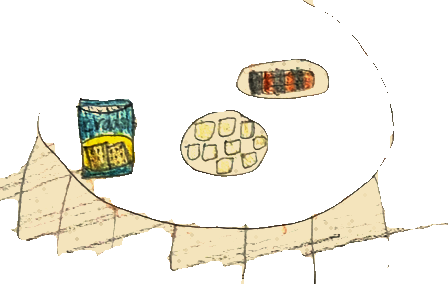
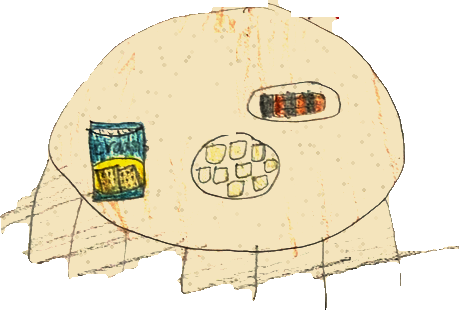
Snowy Hut table cut out whole; owl's light never centred on the little WIT
Claude-Session: https://claude.ai/code/session_01BBNJnnKDsoYXa5MRnbbGYn

diff --git a/index.html b/index.html
@@ -6,7 +6,7 @@
   <title>Witches and Wizards</title>
   <link rel="preconnect" href="https://fonts.googleapis.com">
   <link href="https://fonts.googleapis.com/css2?family=Grandstander:wght@400;700&display=swap" rel="stylesheet">
-  <link rel="stylesheet" href="css/style.css?v=78">
+  <link rel="stylesheet" href="css/style.css?v=79">
 </head>
 <body>
 
@@ -73,7 +73,7 @@
     <button id="btn-level" class="status-item level-button" title="Click to see what you need for the next Level"><b id="status-level"></b></button>
     <button id="btn-adventures" class="status-item level-button" title="Adventure Points: click to see your adventures">Adventure <span id="status-points" class="stars"></span></button>
     <span class="status-item" title="Crystals">💎 <b id="status-crystals"></b></span>
-    <span class="status-item" title="Gems"><img class="gem-icon" src="art/processed/extra_gem.png?v=78" alt="Gems"> <b id="status-gems"></b></span>
+    <span class="status-item" title="Gems"><img class="gem-icon" src="art/processed/extra_gem.png?v=79" alt="Gems"> <b id="status-gems"></b></span>
     <button id="btn-skills" class="status-item level-button" title="Skills: click to see your skills and their Levels">🎓 Skills <b id="status-skills"></b></button>
     <span class="status-item" title="Chore Points">🧹 <b id="status-chores"></b></span>
     <span class="status-item" title="Bonding Points: take care of your pet">🐾 <b id="status-bonding"></b></span>
@@ -262,75 +262,75 @@
   <p id="placement-info" class="placement-info" hidden></p>
 
   <!-- Game content. Every data file adds to GAME_DATA. -->
-  <script>var GAME_DATA = {}; var GAME_VERSION = "78"; // tools/bump_version.py changes this and every ?v= so browsers load fresh files</script>
-  <script src="data/characters.js?v=78"></script>
-  <script src="data/places.js?v=78"></script>
-  <script src="data/paths.js?v=78"></script>
-  <script src="data/items.js?v=78"></script>
-  <script src="data/fish.js?v=78"></script>
-  <script src="data/digging.js?v=78"></script>
-  <script src="data/chores.js?v=78"></script>
-  <script src="data/mining.js?v=78"></script>
-<script src="data/hunger.js?v=78"></script>
-  <script src="data/dance.js?v=78"></script>
-  <script src="data/orchard.js?v=78"></script>
-  <script src="data/spells.js?v=78"></script>
-  <script src="data/unicorns.js?v=78"></script>
-  <script src="data/trading.js?v=78"></script>
-    <script src="data/troll.js?v=78"></script>
-  <script src="data/levels.js?v=78"></script>
-  <script src="data/luck.js?v=78"></script>
-  <script src="data/bonding.js?v=78"></script>
-  <script src="data/pearls.js?v=78"></script>
-  <script src="data/skills.js?v=78"></script>
-  <script src="data/sports.js?v=78"></script>
-  <script src="data/pixie.js?v=78"></script>
-  <script src="data/coaster.js?v=78"></script>
-  <script src="data/supplies.js?v=78"></script>
-  <script src="data/honey.js?v=78"></script>
-  <script src="data/adventures.js?v=78"></script>
-  <script src="data/story.js?v=78"></script>
-  <script src="data/museum.js?v=78"></script>
-  <script src="data/windy.js?v=78"></script>
-  <script src="data/testing.js?v=78"></script>
-  <script src="data/music.js?v=78"></script>
-  <script src="data/furniture.js?v=78"></script>
-  <script src="data/furniture_art.js?v=78"></script>
-  <script src="data/drawn.js?v=78"></script>
+  <script>var GAME_DATA = {}; var GAME_VERSION = "79"; // tools/bump_version.py changes this and every ?v= so browsers load fresh files</script>
+  <script src="data/characters.js?v=79"></script>
+  <script src="data/places.js?v=79"></script>
+  <script src="data/paths.js?v=79"></script>
+  <script src="data/items.js?v=79"></script>
+  <script src="data/fish.js?v=79"></script>
+  <script src="data/digging.js?v=79"></script>
+  <script src="data/chores.js?v=79"></script>
+  <script src="data/mining.js?v=79"></script>
+<script src="data/hunger.js?v=79"></script>
+  <script src="data/dance.js?v=79"></script>
+  <script src="data/orchard.js?v=79"></script>
+  <script src="data/spells.js?v=79"></script>
+  <script src="data/unicorns.js?v=79"></script>
+  <script src="data/trading.js?v=79"></script>
+    <script src="data/troll.js?v=79"></script>
+  <script src="data/levels.js?v=79"></script>
+  <script src="data/luck.js?v=79"></script>
+  <script src="data/bonding.js?v=79"></script>
+  <script src="data/pearls.js?v=79"></script>
+  <script src="data/skills.js?v=79"></script>
+  <script src="data/sports.js?v=79"></script>
+  <script src="data/pixie.js?v=79"></script>
+  <script src="data/coaster.js?v=79"></script>
+  <script src="data/supplies.js?v=79"></script>
+  <script src="data/honey.js?v=79"></script>
+  <script src="data/adventures.js?v=79"></script>
+  <script src="data/story.js?v=79"></script>
+  <script src="data/museum.js?v=79"></script>
+  <script src="data/windy.js?v=79"></script>
+  <script src="data/testing.js?v=79"></script>
+  <script src="data/music.js?v=79"></script>
+  <script src="data/furniture.js?v=79"></script>
+  <script src="data/furniture_art.js?v=79"></script>
+  <script src="data/drawn.js?v=79"></script>
 
   <!-- Game code -->
-  <script src="js/save.js?v=78"></script>
-  <script src="js/world.js?v=78"></script>
-  <script src="js/items.js?v=78"></script>
-  <script src="js/fishing.js?v=78"></script>
-  <script src="js/digging.js?v=78"></script>
-  <script src="js/chores.js?v=78"></script>
-  <script src="js/mining.js?v=78"></script>
-  <script src="js/troll.js?v=78"></script>
-<script src="js/hunger.js?v=78"></script>
-  <script src="js/luck.js?v=78"></script>
-  <script src="js/levels.js?v=78"></script>
-  <script src="js/bonding.js?v=78"></script>
-  <script src="js/cafe.js?v=78"></script>
-  <script src="js/pearls.js?v=78"></script>
-  <script src="js/skills.js?v=78"></script>
-  <script src="js/sports.js?v=78"></script>
-  <script src="js/pixie.js?v=78"></script>
-  <script src="js/coaster.js?v=78"></script>
-  <script src="js/adventures.js?v=78"></script>
-  <script src="js/honey.js?v=78"></script>
-  <script src="js/music.js?v=78"></script>
-  <script src="js/dance.js?v=78"></script>
-  <script src="js/orchard.js?v=78"></script>
-  <script src="js/spells.js?v=78"></script>
-  <script src="js/unicorns.js?v=78"></script>
-  <script src="js/trading.js?v=78"></script>
-    <script src="js/storage.js?v=78"></script>
-  <script src="js/furniture.js?v=78"></script>
-  <script src="js/story.js?v=78"></script>
-  <script src="js/museum.js?v=78"></script>
-  <script src="js/windy.js?v=78"></script>
-  <script src="js/testing.js?v=78"></script>
-  <script src="js/game.js?v=78"></script>
+  <script src="js/save.js?v=79"></script>
+  <script src="js/world.js?v=79"></script>
+  <script src="js/items.js?v=79"></script>
+  <script src="js/fishing.js?v=79"></script>
+  <script src="js/digging.js?v=79"></script>
+  <script src="js/chores.js?v=79"></script>
+  <script src="js/mining.js?v=79"></script>
+  <script src="js/troll.js?v=79"></script>
+<script src="js/hunger.js?v=79"></script>
+  <script src="js/luck.js?v=79"></script>
+  <script src="js/levels.js?v=79"></script>
+  <script src="js/bonding.js?v=79"></script>
+  <script src="js/cafe.js?v=79"></script>
+  <script src="js/pearls.js?v=79"></script>
+  <script src="js/skills.js?v=79"></script>
+  <script src="js/sports.js?v=79"></script>
+  <script src="js/pixie.js?v=79"></script>
+  <script src="js/coaster.js?v=79"></script>
+  <script src="js/adventures.js?v=79"></script>
+  <script src="js/honey.js?v=79"></script>
+  <script src="js/music.js?v=79"></script>
+  <script src="js/dance.js?v=79"></script>
+  <script src="js/orchard.js?v=79"></script>
+  <script src="js/spells.js?v=79"></script>
+  <script src="js/unicorns.js?v=79"></script>
+  <script src="js/trading.js?v=79"></script>
+    <script src="js/storage.js?v=79"></script>
+  <script src="js/furniture.js?v=79"></script>
+  <script src="js/story.js?v=79"></script>
+  <script src="js/museum.js?v=79"></script>
+  <script src="js/windy.js?v=79"></script>
+  <script src="js/testing.js?v=79"></script>
+  <script src="js/game.js?v=79"></script>
 </body>
 </html>

diff --git a/catalog.html b/catalog.html
@@ -357,40 +357,40 @@
   </div>
   </main>
 
-  <script>var GAME_DATA = {}; var GAME_VERSION = "78"; // tools/bump_version.py changes this and every ?v= so browsers load fresh files</script>
-  <script src="data/characters.js?v=78"></script>
-  <script src="data/places.js?v=78"></script>
-  <script src="data/items.js?v=78"></script>
-  <script src="data/ideas.js?v=78"></script>
-  <script src="data/fish.js?v=78"></script>
-  <script src="data/digging.js?v=78"></script>
-  <script src="data/mining.js?v=78"></script>
-  <script src="data/troll.js?v=78"></script>
-  <script src="data/levels.js?v=78"></script>
-  <script src="data/luck.js?v=78"></script>
-  <script src="data/bonding.js?v=78"></script>
-  <script src="data/pearls.js?v=78"></script>
-  <script src="data/skills.js?v=78"></script>
-  <script src="data/sports.js?v=78"></script>
-  <script src="data/pixie.js?v=78"></script>
-  <script src="data/supplies.js?v=78"></script>
-  <script src="data/honey.js?v=78"></script>
-  <script src="data/gameplay.js?v=78"></script>
-  <script src="data/extras.js?v=78"></script>
-  <script src="data/hunger.js?v=78"></script>
-  <script src="data/orchard.js?v=78"></script>
-  <script src="data/dance.js?v=78"></script>
-  <script src="data/trading.js?v=78"></script>
-  <script src="data/unicorns.js?v=78"></script>
-  <script src="data/adventures.js?v=78"></script>
-  <script src="data/spells.js?v=78"></script>
-  <script src="data/furniture.js?v=78"></script>
-  <script src="data/next_steps.js?v=78"></script>
-  <script src="data/adventure_ideas.js?v=78"></script>
-  <script src="data/logic.js?v=78"></script>
-  <script src="data/chores.js?v=78"></script>
-  <script src="data/music.js?v=78"></script>
-  <script src="data/drawn.js?v=78"></script>
+  <script>var GAME_DATA = {}; var GAME_VERSION = "79"; // tools/bump_version.py changes this and every ?v= so browsers load fresh files</script>
+  <script src="data/characters.js?v=79"></script>
+  <script src="data/places.js?v=79"></script>
+  <script src="data/items.js?v=79"></script>
+  <script src="data/ideas.js?v=79"></script>
+  <script src="data/fish.js?v=79"></script>
+  <script src="data/digging.js?v=79"></script>
+  <script src="data/mining.js?v=79"></script>
+  <script src="data/troll.js?v=79"></script>
+  <script src="data/levels.js?v=79"></script>
+  <script src="data/luck.js?v=79"></script>
+  <script src="data/bonding.js?v=79"></script>
+  <script src="data/pearls.js?v=79"></script>
+  <script src="data/skills.js?v=79"></script>
+  <script src="data/sports.js?v=79"></script>
+  <script src="data/pixie.js?v=79"></script>
+  <script src="data/supplies.js?v=79"></script>
+  <script src="data/honey.js?v=79"></script>
+  <script src="data/gameplay.js?v=79"></script>
+  <script src="data/extras.js?v=79"></script>
+  <script src="data/hunger.js?v=79"></script>
+  <script src="data/orchard.js?v=79"></script>
+  <script src="data/dance.js?v=79"></script>
+  <script src="data/trading.js?v=79"></script>
+  <script src="data/unicorns.js?v=79"></script>
+  <script src="data/adventures.js?v=79"></script>
+  <script src="data/spells.js?v=79"></script>
+  <script src="data/furniture.js?v=79"></script>
+  <script src="data/next_steps.js?v=79"></script>
+  <script src="data/adventure_ideas.js?v=79"></script>
+  <script src="data/logic.js?v=79"></script>
+  <script src="data/chores.js?v=79"></script>
+  <script src="data/music.js?v=79"></script>
+  <script src="data/drawn.js?v=79"></script>
   <script>
     // Builds the catalog straight from the game's data files, so it never goes out of date.
     const drawn = GAME_DATA.drawn || [];

diff --git a/data/furniture_art.js b/data/furniture_art.js
@@ -1,3 +1,3 @@
 // Made by tools/process_art.py: where each cut-out piece of furniture sits
 // in its room's drawing, as [left, top, right, bottom] percentages.
-GAME_DATA.furnitureBoxes = {"cabin/table": [7.7, 66.5, 22.0, 76.1], "cabin/stool": [22.4, 70.7, 28.8, 77.6], "cabin/sofa": [38.0, 57.2, 65.1, 75.0], "cabin/bookshelf": [84.0, 57.6, 100.0, 74.0], "home/bird_cage": [36.5, 29.2, 54.9, 65.0], "home/pet_cage": [3.1, 39.0, 35.0, 70.0], "home/chest": [78.0, 45.9, 100.0, 64.6], "home/armchair": [64.5, 62.3, 83.4, 94.0], "home/cooler": [2.6, 75.3, 19.8, 90.0], "home/spellbook_table": [19.6, 73.6, 40.8, 92.8], "hut/snack_table": [8.0, 13.0, 36.0, 40.0], "hut/armchair": [67.7, 26.4, 91.0, 51.0], "hut/bookshelf": [80.1, 51.0, 97.0, 85.4], "hut/egg_chair": [58.2, 72.5, 69.0, 86.4], "mountain_house/table": [9.3, 69.1, 27.3, 81.9], "mountain_house/pink_chair": [37.3, 68.0, 64.0, 84.1], "mountain_house/green_chair": [66.1, 68.7, 88.7, 80.9], "mountain_house/pencil": [15.2, 85.3, 24.0, 91.4], "old_oak/sofa": [4.6, 54.0, 48.0, 84.5], "old_oak/pouf": [52.3, 67.5, 59.8, 78.5], "old_oak/cushions": [20.0, 82.0, 71.0, 97.2], "unicorn_meadow/front_1": [17.1, 17.9, 26.6, 43.0], "unicorn_meadow/front_2": [46.0, 6.0, 59.0, 35.4], "unicorn_meadow/front_3": [79.8, 14.9, 92.2, 40.5], "unicorn_meadow/front_4": [57.5, 27.8, 69.0, 61.0], "unicorn_meadow/front_5": [14.5, 49.9, 27.5, 77.0], "unicorn_meadow/front_6": [1.2, 64.8, 9.9, 87.7], "unicorn_meadow/front_7": [31.5, 67.0, 44.0, 95.8], "unicorn_meadow/front_8": [46.8, 76.6, 58.0, 94.0], "unicorn_meadow/front_9": [75.0, 54.0, 90.0, 85.1]};
+GAME_DATA.furnitureBoxes = {"cabin/table": [7.7, 66.5, 22.0, 76.1], "cabin/stool": [22.4, 70.7, 28.8, 77.6], "cabin/sofa": [38.0, 57.2, 65.1, 75.0], "cabin/bookshelf": [84.0, 57.6, 100.0, 74.0], "home/bird_cage": [36.5, 29.2, 54.9, 65.0], "home/pet_cage": [3.1, 39.0, 35.0, 70.0], "home/chest": [78.0, 45.9, 100.0, 64.6], "home/armchair": [64.5, 62.3, 83.4, 94.0], "home/cooler": [2.6, 75.3, 19.8, 90.0], "home/spellbook_table": [19.6, 73.6, 40.8, 92.8], "hut/snack_table": [7.3, 10.8, 36.0, 40.3], "hut/armchair": [67.7, 26.4, 91.0, 51.0], "hut/bookshelf": [80.1, 51.0, 97.0, 85.4], "hut/egg_chair": [58.2, 72.5, 69.0, 86.4], "mountain_house/table": [9.3, 69.1, 27.3, 81.9], "mountain_house/pink_chair": [37.3, 68.0, 64.0, 84.1], "mountain_house/green_chair": [66.1, 68.7, 88.7, 80.9], "mountain_house/pencil": [15.2, 85.3, 24.0, 91.4], "old_oak/sofa": [4.6, 54.0, 48.0, 84.5], "old_oak/pouf": [52.3, 67.5, 59.8, 78.5], "old_oak/cushions": [20.0, 82.0, 71.0, 97.2], "unicorn_meadow/front_1": [17.1, 17.9, 26.6, 43.0], "unicorn_meadow/front_2": [46.0, 6.0, 59.0, 35.4], "unicorn_meadow/front_3": [79.8, 14.9, 92.2, 40.5], "unicorn_meadow/front_4": [57.5, 27.8, 69.0, 61.0], "unicorn_meadow/front_5": [14.5, 49.9, 27.5, 77.0], "unicorn_meadow/front_6": [1.2, 64.8, 9.9, 87.7], "unicorn_meadow/front_7": [31.5, 67.0, 44.0, 95.8], "unicorn_meadow/front_8": [46.8, 76.6, 58.0, 94.0], "unicorn_meadow/front_9": [75.0, 54.0, 90.0, 85.1]};

diff --git a/data/furniture.js b/data/furniture.js
@@ -1,4 +1,4 @@
-// Furniture the player can move around (the 🪑 Rearrange button in a room).
+// Furniture the player can move around (drag a piece in its room).
 // Each piece is cut out of the room's drawing by tools/process_art.py, which
 // also makes an empty copy of the room to stand the pieces in.
 //
@@ -11,8 +11,11 @@
 //   holds  optional: click it at Home to open this store ("homeCooler" or
 //          "homeChest", see js/storage.js)
 //   min_part  optional: keep smaller loose bits too (like shadows); default 0.05
+//   keep_out  optional: boxes (same kind of numbers as "box") to leave out of
+//          the piece, for things drawn touching it that should stay in the room
 GAME_DATA.furniture = [
-  { "place": "hut", "id": "snack_table", "name": "Snack Table",  "box": [8, 13, 36, 40] },
+  { "place": "hut", "id": "snack_table", "name": "Snack Table",  "box": [6, 10.8, 36, 41.5],
+    "keep_out": [[19.5, 10, 24, 11.4], [25.5, 10, 30, 12.3]] },
   { "place": "hut", "id": "armchair",   "name": "Pink Armchair", "box": [67, 24, 92, 51] },
   { "place": "hut", "id": "bookshelf",  "name": "Bookshelf",    "box": [79, 50, 97, 86] },
   { "place": "hut", "id": "egg_chair",  "name": "Purple Chair", "box": [57, 71, 69, 88] },

diff --git a/data/windy.js b/data/windy.js
@@ -31,9 +31,10 @@ GAME_DATA.windyRescue = {
   "zoomSeconds": 1.5,     // how long the chosen section takes to grow
   "owl": "pet_owl",       // the Snowy Owl's picture (🦉 until drawn)
   "flySeconds": 3,        // one flight across the magnified section
-  "lightSize": 30,        // the lit spot's width, in percent of the magnified section...
+  "lightSize": 36,        // the lit spot's width, in percent of the magnified section...
   "witSize": 8,           // ...the little WIT's, which is somewhere inside the lit spot...
-  "findDistance": 6,      // ...and how close a click must be to find them
+  "offCentre": 0.5,       // ...at least this far out from its middle (0 = middle, 1 = edge; Scott: never the middle)...
+  "findDistance": 5,      // ...and how close a click must be to find them
   "lightSeconds": 1.2,    // how long the spot stays lit
   "lostWit": "🧒",        // until the girls draw the little WIT (art/raw/extra_little_wit.jpg)
   "picture": "extra_little_wit",

diff --git a/js/windy.js b/js/windy.js
@@ -333,12 +333,14 @@ function flyOwl(zoom) {
   }, rules.flySeconds * 1000);
 }
 
-// A spot lights up around the little WIT, not centred on them, so there's
-// still some luck in where you click.
+// A spot lights up around the little WIT, never centred on them: they're
+// somewhere near its edge, a different side each flight. So one flight only
+// narrows it down, and where two or three lit spots overlap is the place to look.
 function lightUp(zoom, shape) {
   const rules = windyRules();
   const wit = player.windy.wit;
-  const away = Math.random() * (rules.lightSize - rules.witSize) / 2;
+  const farthest = (rules.lightSize - rules.witSize) / 2;
+  const away = farthest * (rules.offCentre + Math.random() * (1 - rules.offCentre));
   const angle = Math.random() * Math.PI * 2;
   const light = document.createElement("span");
   light.className = "owl-light";

diff --git a/tools/process_art.py b/tools/process_art.py
@@ -295,6 +295,11 @@ def cut_out_furniture(place_id, drawing, paper, pieces):
         part = empty.crop(box)
         mask = find_drawing(part, piece.get("min_part", 0.05), piece.get("gap", GAP_CLOSE),
                             piece.get("ink_level", 190))
+        # keep_out: boxes (percent of the room) that aren't part of this piece,
+        # like hanging stars just above the Snowy Hut's table top.
+        for kl, kt, kr, kb in piece.get("keep_out", []):
+            ImageDraw.Draw(mask).rectangle((round(w * kl / 100) - box[0], round(h * kt / 100) - box[1],
+                                            round(w * kr / 100) - box[0], round(h * kb / 100) - box[1]), fill=0)
         sticker = on_paper(part, paper.crop(box)).convert("RGBA")
         sticker.putalpha(mask)
         inside = mask.getbbox()

diff --git a/CLAUDE.md b/CLAUDE.md
@@ -31,7 +31,7 @@ A family project: Scott drives, his two 9-year-old daughters make the art and de
 - Territories on the World map: Village, Forest, Mountain, Lake, Meadows (Scott, 2026-10-10: the flowers at the bottom right. The girls drew `map_meadows` 2026-10-13, photo art/raw/sheets/meadows_map.jpeg: Cozy Lounge, Poppy Patch, Pet Training Field, Rosy Hills, Stream, Beehive, Unicorn Meadow (the rainbow), Butterfly Garden; the new six are placeholders).
 - Village map drawn (Scott, 2026-10-15; `map_village`, a sideways photo turned with `rotate`): ten houses, no streets, so its roads are straight. Claude matched the 8 places to houses (big double-door house = Wizard School, tall one = Multi-House, the ray-lines house = Disco Dance Hall); the storm house (top middle) and the small striped house (middle) are for future places (Scott).
 - Farm (Scott, 2026-10-15): a sixth territory (`farm`, placeholder map, placed by Claude on the World map west of the Village and Forest, roads to both) with its sections, nothing to do yet: Farm House (`farm_house`), Barn next to it with farming tools inside (`barn`, Scott), Animal Farm (`animal_farm`), Crop Fields (`crop_fields`). Meant for raising animals and crops.
-- Lost on Windy Peak (Scott, 2026-10-15, his design, reworked 2026-10-16 for "less prompting, more figuring out"): `data/windy.js` (`GAME_DATA.windyRescue`, the steps are listed at its top), `js/windy.js`, adventure `windy` with `unlockBy` instead of `unlockItem` (adventures with `unlockBy` don't use a Skills-earned place). The Snowy Owl Dropoff only lets owls fly after a falconry lesson (`player.falconryDone`; Pet Training Field). Letting it fly while owning a Night Vision Potion starts it (`owlFlewOverSlope`, via `after` in openCare). The potion has 4 sips (🌙 Sip in the backpack while searching; `player.windy.sips`, the last sip uses it up; `player.windy.seeing` until used); nothing tells you to sip. Look down (binoculars) after a sip shows a blown-up green Ski Slope (`place_ski_slope`, hidden place in the peak, placeholder until drawn) with a lantern glow inside the little WIT's section (`player.windy.glow`), the first clue. Ski down: the dark slope in 12 big sections (4 × 3), "Choose a section to search", 3 tries (`player.windy.looked`), then they wander. The right section grows to fill the picture (`magnifiedSection`, `zoomSeconds`); each sip the Snowy Owl flies across it (`flyOwl`) and as it passes the little WIT a spot bigger than them lights up briefly, not centred on them (`lightSize`, `witSize`); 3 searches (`player.windy.searched`, `findDistance`), then they wander. Found: click them, "⛷ Ski down together" to the Snowy Hut (stage "cold"). There, with no instructions, drag the little WIT onto the couch (the "armchair" furniture piece; "sitting"), the blanket hanging over the couch onto them ("covered"; `hut_blanket`, a plaid placeholder until drawn), then the hut's mug (the girls' pink mug, cut out of the hut drawing as `hut_mug` and erased from it) onto them: +1 Adventure Point, `player.windy.done`, stage back to "". Out-of-order drops get a reply from the little WIT (`slips`, `shaky`). The mug, blanket and seat sit on their furniture and move with it (`on` in data/windy.js). Little WIT is 🧒 until drawn (`extra_little_wit`); celebration kind "rescue" has no picture yet.
+- Lost on Windy Peak (Scott, 2026-10-15, his design, reworked 2026-10-16 for "less prompting, more figuring out"): `data/windy.js` (`GAME_DATA.windyRescue`, the steps are listed at its top), `js/windy.js`, adventure `windy` with `unlockBy` instead of `unlockItem` (adventures with `unlockBy` don't use a Skills-earned place). The Snowy Owl Dropoff only lets owls fly after a falconry lesson (`player.falconryDone`; Pet Training Field). Letting it fly while owning a Night Vision Potion starts it (`owlFlewOverSlope`, via `after` in openCare). The potion has 4 sips (🌙 Sip in the backpack while searching; `player.windy.sips`, the last sip uses it up; `player.windy.seeing` until used); nothing tells you to sip. Look down (binoculars) after a sip shows a blown-up green Ski Slope (`place_ski_slope`, hidden place in the peak, placeholder until drawn) with a lantern glow inside the little WIT's section (`player.windy.glow`), the first clue. Ski down: the dark slope in 12 big sections (4 × 3), "Choose a section to search", 3 tries (`player.windy.looked`), then they wander. The right section grows to fill the picture (`magnifiedSection`, `zoomSeconds`); each sip the Snowy Owl flies across it (`flyOwl`) and as it passes the little WIT a spot bigger than them lights up briefly, with them out towards its edge, never the middle (`lightSize`, `witSize`, `offCentre`; Scott 2026-10-16: it should take 2 or 3 flights to zero in); 3 searches (`player.windy.searched`, `findDistance`), then they wander. Found: click them, "⛷ Ski down together" to the Snowy Hut (stage "cold"). There, with no instructions, drag the little WIT onto the couch (the "armchair" furniture piece; "sitting"), the blanket hanging over the couch onto them ("covered"; `hut_blanket`, a plaid placeholder until drawn), then the hut's mug (the girls' pink mug, cut out of the hut drawing as `hut_mug` and erased from it) onto them: +1 Adventure Point, `player.windy.done`, stage back to "". Out-of-order drops get a reply from the little WIT (`slips`, `shaky`). The mug, blanket and seat sit on their furniture and move with it (`on` in data/windy.js). Little WIT is 🧒 until drawn (`extra_little_wit`); celebration kind "rescue" has no picture yet.
 - Adventure ideas (Scott asked, 2026-10-15): `data/adventure_ideas.js` (catalog only, Next Steps page; `status` active/inactive, `favorite` = Scott's favourites: Camp, Windy Peak, Mermaid): categories (Reunite, Quest, Rescue, Teach, Discover, Mischief) and Claude's five ideas with unlock steps (Camp Little WITs, Lost on Windy Peak, The Goblin's Giggles, The Giant Pumpkin, The Mermaid's Song). Keep everything G rated: bad guys are cheeky and are won over with riddles, games or kindness, never fighting (Scott).
 - Forest and Lake maps drawn (Scott, 2026-10-10). Forest: Crafting Cabin, Old Oak, Toadstool Cottage, Mushroom Ring, Treehouse, Fruit Orchard. Lake: Dock, Tiny Island, Pebble Beach, Pearl Waterfall (placeholder inside), Fish Hut, Lakeside Store. The Mushroom Ring is a dance room (disco ball, Dance! sign, a "solve to dance" sum); it was drawn on the same page as other things (Crafting Cabin bits), which Scott said to ignore for now (page kept in art/raw/sheets/mushroom_ring.jpeg).
 - Hunger (Scott, 2026-10-10): `data/hunger.js`, `js/hunger.js`, shown as 🍽 3/10 in the top bar (`player.hunger`, max 10). Walking adds hunger (1 point per map-width walked, `player.walked` keeps the remainder) and hunger slows walking in steps (Scott, 2026-10-11: 0-3 full speed, 4-6 three quarters, 7-9 two thirds, 10 half; `speeds`). Food (Scott, 2026-10-11): `food` in items.js is "healthy" (takes away hunger points equal to its price) or "snack" (half its price, rounded up); Claude chose water, tea, the fruit basket and fruit as healthy; picked fruit uses `worth` as its price. The backpack shows a 😋 Eat button with the kind and points, and eating removes the food so it can be bought again.
